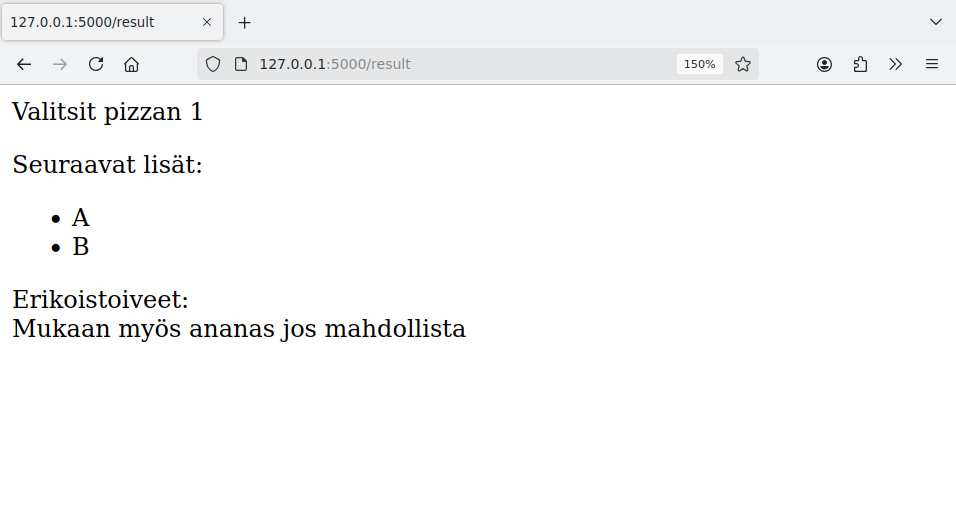
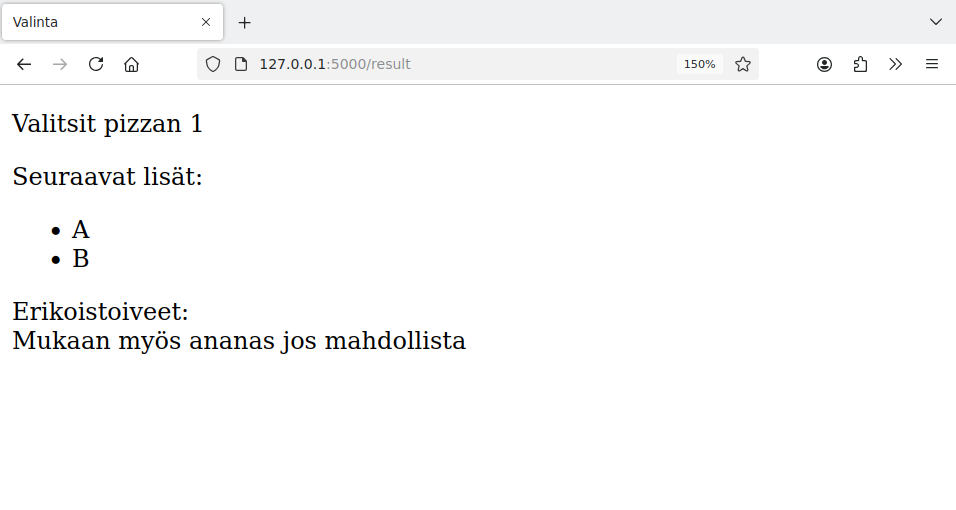
Paranna osaa 1

diff --git a/_material/01.md b/_material/01.md
@@ -63,6 +63,8 @@ Kun olemme virtuaaliympäristössä, voimme asentaa Python-kirjastoja paikallise
 
 Nyt meillä on pystyssä ympäristö, jossa voimme toteuttaa ja käynnistää web-sovelluksen. Tehdään testiksi yksinkertainen sovellus tiedostoon `app.py`:
 
+{: .code-title }
+app.py
 ```python
 from flask import Flask
 
@@ -175,14 +177,30 @@ Periaatteessa voisimme luoda sovelluksen sivujen HTML:n suoraan funktioissa, mut
 
 Luodaan testiksi sivupohja `index.html`:
 
+{: .code-title }
+index.html
 ```html
-<title>Etusivu</title>
-<h1>Etusivu</h1>
-<b>Tervetuloa</b> <i>sovellukseen</i>!
+<!DOCTYPE html>
+<html>
+
+<head>
+  <title>Etusivu</title>
+</head>
+
+<body>
+  <h1>Etusivu</h1>
+  <p>
+    <b>Tervetuloa</b> <i>sovellukseen</i>!
+  </p>
+</body>
+
+</html>
 ```
 
 Tämän jälkeen saamme näytettyä sivupohjan sisällön etusivulla näin:
 
+{: .code-title }
+app.py
 ```python
 from flask import Flask
 from flask import render_template
@@ -200,29 +218,59 @@ Yllä oleva esimerkki tuottaa seuraavan sivun:
 
 ![](../img/01-template.png)
 
-Flask käyttää sivujen luomisessa Jinja-sivupohjia, minkä avulla sivun osaksi voi välittää tietoa Python-koodista. Seuraava esimerkki antaa näytteen asiasta:
+Flask käyttää sivujen luomisessa Jinja-sivupohjia, minkä avulla sivun osaksi voi välittää tietoa Python-koodista. Ideana on lisätä HTML-koodiin Jinja-komentoja, jotka kirjoitetaan aaltosulkujen `{` ja `}` sisään. Voimme tehdä esimerkiksi näin:
 
+{: .code-title }
+index.html
 ```jinja
-<title>Etusivu</title>
-<h1>Etusivu</h1>
-{% raw %}<p>{{ message }}</p>
-<ul>
-{% for item in items %}
-<li> {{ item }}
-{% endfor %}
-</ul>{% endraw %}
+<!DOCTYPE html>
+<html>
+
+<head>
+  <title>Etusivu</title>
+</head>
+
+{% raw %}<body>
+  <h1>Etusivu</h1>
+  <p>{{ message }}</p>
+  <ul>
+    {% for item in items %}
+    <li>{{ item }}</li>
+    {% endfor %}
+  </ul>
+</body>{% endraw %}
+
+</html>
 ```
 
-Tässä sivun osaksi tulee parametrin `message` määrittämä viesti sekä listan `items` alkiot HTML-listana. Voimme kutsua sivupohjaa vaikkapa näin:
+Tässä `{% raw %}{{ message }}{% endraw %}` tarkoittaa, että sivun osaksi tulee parametrin `message` sisältö. Silmukka `{% raw %}{% for item in items %}{% endraw %}` puolestaan käy läpi parametrina annetun listan `items` alkiot ja lisää sivulle jokaisen alkion kohdalla silmukan sisällä olevan rivin. Voimme kutsua sivupohjaa vaikkapa näin:
 
+{: .code-title }
+app.py
 ```python
+from flask import Flask
+from flask import render_template
+
+app = Flask(__name__)
+
 @app.route("/")
 def index():
     words = ["apina", "banaani", "cembalo"]
     return render_template("index.html", message="Tervetuloa!", items=words)
 ```
 
-Tämän seurauksena sivu näyttää tältä:
+Tässä tapauksessa Jinja-komennot tuottavat sivun sisällöksi:
+
+```jinja
+  <p>Tervetuloa!</p>
+  <ul>
+    <li>apina</li>
+    <li>banaani</li>
+    <li>cembalo</li>
+  </ul>
+```
+
+Selaimessa sivu näyttää tältä:
 
 ![](../img/01-jinja.png)
 
@@ -244,25 +292,55 @@ _Lomake_ on HTML-sivun osa, jonka kautta käyttäjä pystyy lähettämään tiet
 
 Tehdään ensimmäisenä esimerkkinä lomake, joka kysyy käyttäjältä nimeä. Määrittelemme lomakkeen seuraavasti sivupohjassa `form.html`:
 
+{: .code-title }
+form.html
 ```html
-<form action="/result" method="post">
-Anna nimesi:
-<input type="text" name="name">
-<br>
-<input type="submit" value="Lähetä">
-</form>
+<!DOCTYPE html>
+<html>
+
+<head>
+  <title>Lomake</title>
+</head>
+
+<body>
+  <form action="/result" method="post">
+    <p>
+      Anna viesti:
+      <input type="text" name="message">
+    </p>
+    <input type="submit" value="Lähetä">
+  </form>
+</body>
+
+</html>
 ```
 
-Tämä lomake lähettää tietoa sivulle `result` metodilla `POST`. Lomakkeessa on tekstikenttä, jonka nimi on `name`, sekä lähetysnappi.
+Tämä lomake lähettää tietoa sivulle `result` metodilla `POST`. Lomakkeessa on tekstikenttä, jonka nimi on `message`, sekä lähetysnappi.
 
 Kun käyttäjä lähettää lomakkeen, hän siirtyy toiselle sivulle, joka näyttää viestin nimen perusteella. Tässä on sivupohja `result.html` tätä sivua varten:
 
+{: .code-title }
+result.html
 ```jinja
-{% raw %}Moikka, {{ name }}!{% endraw %}
+<!DOCTYPE html>
+<html>
+
+<head>
+  <title>Viesti</title>
+</head>
+
+<body>
+  <p>Annoit seuraavan viestin:</p>
+  {% raw %}<p>{{ message }}</p>{% endraw %}
+</body>
+
+</html>
 ```
 
 Seuraava sovellus toteuttaa sivupohjien avulla sivut `form` ja `result`:
 
+{: .code-title }
+app.py
 ```python
 from flask import Flask
 from flask import render_template, request
@@ -275,8 +353,8 @@ def form():
 
 @app.route("/result", methods=["POST"])
 def result():
-    name = request.form["name"]
-    return render_template("result.html", name=name)
+    message = request.form["message"]
+    return render_template("result.html", message=message)
 ```
 
 Sivu `result` ottaa vastaan `POST`-metodilla lähetetyn lomakkeen, mikä näkyy dekoraattorin parametrissa `methods`. Lomakkeen kautta lähetetty tieto on saatavilla olion `request` kautta. Koska lomakkeen tekstikentän nimi on `name`, siihen viitataan `request.form["name"]`.
@@ -299,46 +377,77 @@ Tavallisia lomakkeen elementtejä ovat tekstikentät ja valintaelementit. Jokain
 
 Tehdään seuraavaksi esimerkki, jossa käyttäjä voi tilata pizzan. Sivupohja `order.html` näyttää tilaukseen liittyvät valinnat:
 
+{: .code-title }
+order.html
 ```html
-<form action="/result" method="post">
-Valitse pizza:
-<p>
-<input type="radio" name="pizza" value="1"> Frutti di Mare
-<input type="radio" name="pizza" value="2"> Margherita
-<input type="radio" name="pizza" value="3"> Quattro Formaggi
-<input type="radio" name="pizza" value="4"> Quattro Stagioni
-<p>
-Valitse lisät:
-<p>
-<input type="checkbox" name="extra" value="A"> oregano
-<input type="checkbox" name="extra" value="B"> valkosipuli
-<p>
-Erikoistoiveet: <br>
-<textarea name="message" rows="3" cols="50"></textarea>
-<p>
-<input type="submit" value="Lähetä">
-</form>
+<!DOCTYPE html>
+<html>
+
+<head>
+  <title>Tilaus</title>
+</head>
+
+<body>
+  <form action="/result" method="post">
+    <p>Valitse pizza:</p>
+    <p>
+      <input type="radio" name="pizza" value="1"> Frutti di Mare
+      <input type="radio" name="pizza" value="2"> Margherita
+      <input type="radio" name="pizza" value="3"> Quattro Formaggi
+      <input type="radio" name="pizza" value="4"> Quattro Stagioni
+    </p>
+    <p>Valitse lisät:</p>
+    <p>
+      <input type="checkbox" name="extra" value="A"> oregano
+      <input type="checkbox" name="extra" value="B"> valkosipuli
+    </p>
+    <p>Erikoistoiveet: <br />
+      <textarea name="message" rows="3" cols="50"></textarea>
+    </p>
+    <input type="submit" value="Lähetä">
+  </form>
+</body>
+
+</html>
 ```
 
 Elementtien `radio` ja `checkbox` erona on, että samannimisistä elementeistä vain yksi `radio` voi olla valittuna mutta yksi tai useampi `checkbox` voi olla valittuna.
 
 Sivupohja `result.html` näyttää tilauksen tiedot lähetyksen jälkeen:
 
+{: .code-title }
+result.html
 ```jinja
-{% raw %}Valitsit pizzan {{ pizza }}
-<p>
-Seuraavat lisät:
-<ul>
-{% for extra in extras %}
-<li> {{ extra }}
-{% endfor %}
-</ul>
-Erikoistoiveet: <br>
-{{ message }}{% endraw %}
+<!DOCTYPE html>
+<html>
+
+<head>
+  <title>Valinta</title>
+</head>
+
+{% raw %}<body>
+  <p>Valitsit pizzan {{ pizza }}</p>
+  <p>
+    Seuraavat lisät:
+    <ul>
+      {% for extra in extras %}
+      <li>{{ extra }}</li>
+      {% endfor %}
+    </ul>
+  </p>
+  <p>
+    Erikoistoiveet: <br />
+    {{ message }}
+  </p>
+</body>{% endraw %}
+
+</html>
 ```
 
 Seuraava sovellus käsittelee lomakkeen kautta lähetetyt tiedot:
 
+{: .code-title }
+app.py
 ```python
 from flask import Flask
 from flask import render_template, request
@@ -354,9 +463,7 @@ def result():
     pizza = request.form["pizza"]
     extras = request.form.getlist("extra")
     message = request.form["message"]
-    return render_template("result.html", pizza=pizza,
-                                          extras=extras,
-                                          message=message)
+    return render_template("result.html", pizza=pizza, extras=extras, message=message)
 ```
 
 Koska `extra`-nimen alla voi olla useita valintoja, ne haetaan listana `getlist`-metodilla.
@@ -371,6 +478,8 @@ Lomakkeen käyttäminen voi näyttää tältä:
 
 Nyt kun meillä on perustiedot web-sovelluksen tekemisestä, on hyvä hetki katsoa vähän tarkemmin, mitä tapahtuu, kun sovellusta käytetään selaimessa. Tarkastellaan esimerkkinä seuraavaa sovellusta:
 
+{: .code-title }
+app.py
 ```python
 from flask import Flask
 
@@ -413,7 +522,7 @@ Kun Flask-sovellus käynnistetään komennolla `flask run`, sovellus suorittaa e
 Jotkin asiat sovelluksessa ovat yhteisiä kaikille sivupyynnöille ja jotkin taas ovat sivupyyntökohtaisia. Esimerkiksi seuraavassa koodissa muuttuja `value` on globaali, joten muuttuja saa satunnaisen arvon sovelluksen käynnistyessä ja tämän jälkeen sama muuttujan arvo näkyy aina etusivun latautuessa.
 
 ```python
-value = randint(1, 100)
+value = random.randint(100)
 
 @app.route("/")
 def index():
@@ -425,11 +534,11 @@ Seuraavassa koodissa puolestaan muuttuja `value` saa arvon paikallisesti sivupyy
 ```python
 @app.route("/")
 def index():
-    value = randint(1, 100)
+    value = random.randint(100)
     return "Satunnainen luku: " + str(value)
 ```
 
-Jotkin Flaskin sisäiset oliot _näyttävät_ globaaleilta mutta ovat todellisuudessa sivupyyntökohtaisia. Esimerkki tästä on olio `request`, joka sisältää sivupyynnön tietoja. Tämän olion kautta voi hakea esimerkiksi lomakkeen kautta lähetetyn kentän sisällön:
+Jotkin Flaskin sisäiset oliot _näyttävät_ globaaleilta mutta ovat todellisuudessa sivupyyntökohtaisia. Esimerkki tästä on olio `request`, joka sisältää sivupyynnön tietoja, kuten lomakkeen kautta lähetetyn kentän sisällön.
 
 ```python
 @app.route("/result", methods=["POST"])
@@ -438,4 +547,4 @@ def result():
     ...
 ```
 
-Vaikka oliota `request` voidaan käyttää globaalin muuttujan tavoin, se on kuitenkin sivupyyntökohtainen. Jos näin ei olisi, eri sivupyyntöjen tiedot menisivät sekaisin. Esimerkiksi yllä oleva koodi toimii, koska olion `request` kautta saadaan nimenomaan kyseiseen sivupyyntöön liittyvä käyttäjän nimi.
+Vaikka oliota `request` voidaan käyttää globaalin muuttujan tavoin, se on kuitenkin sivupyyntökohtainen. Jos näin ei olisi, eri sivupyyntöjen tiedot voisivat mennä sekaisin. Esimerkiksi yllä oleva koodi toimii, koska olion `request` kautta saadaan nimenomaan kyseiseen sivupyyntöön liittyvä käyttäjän nimi.
